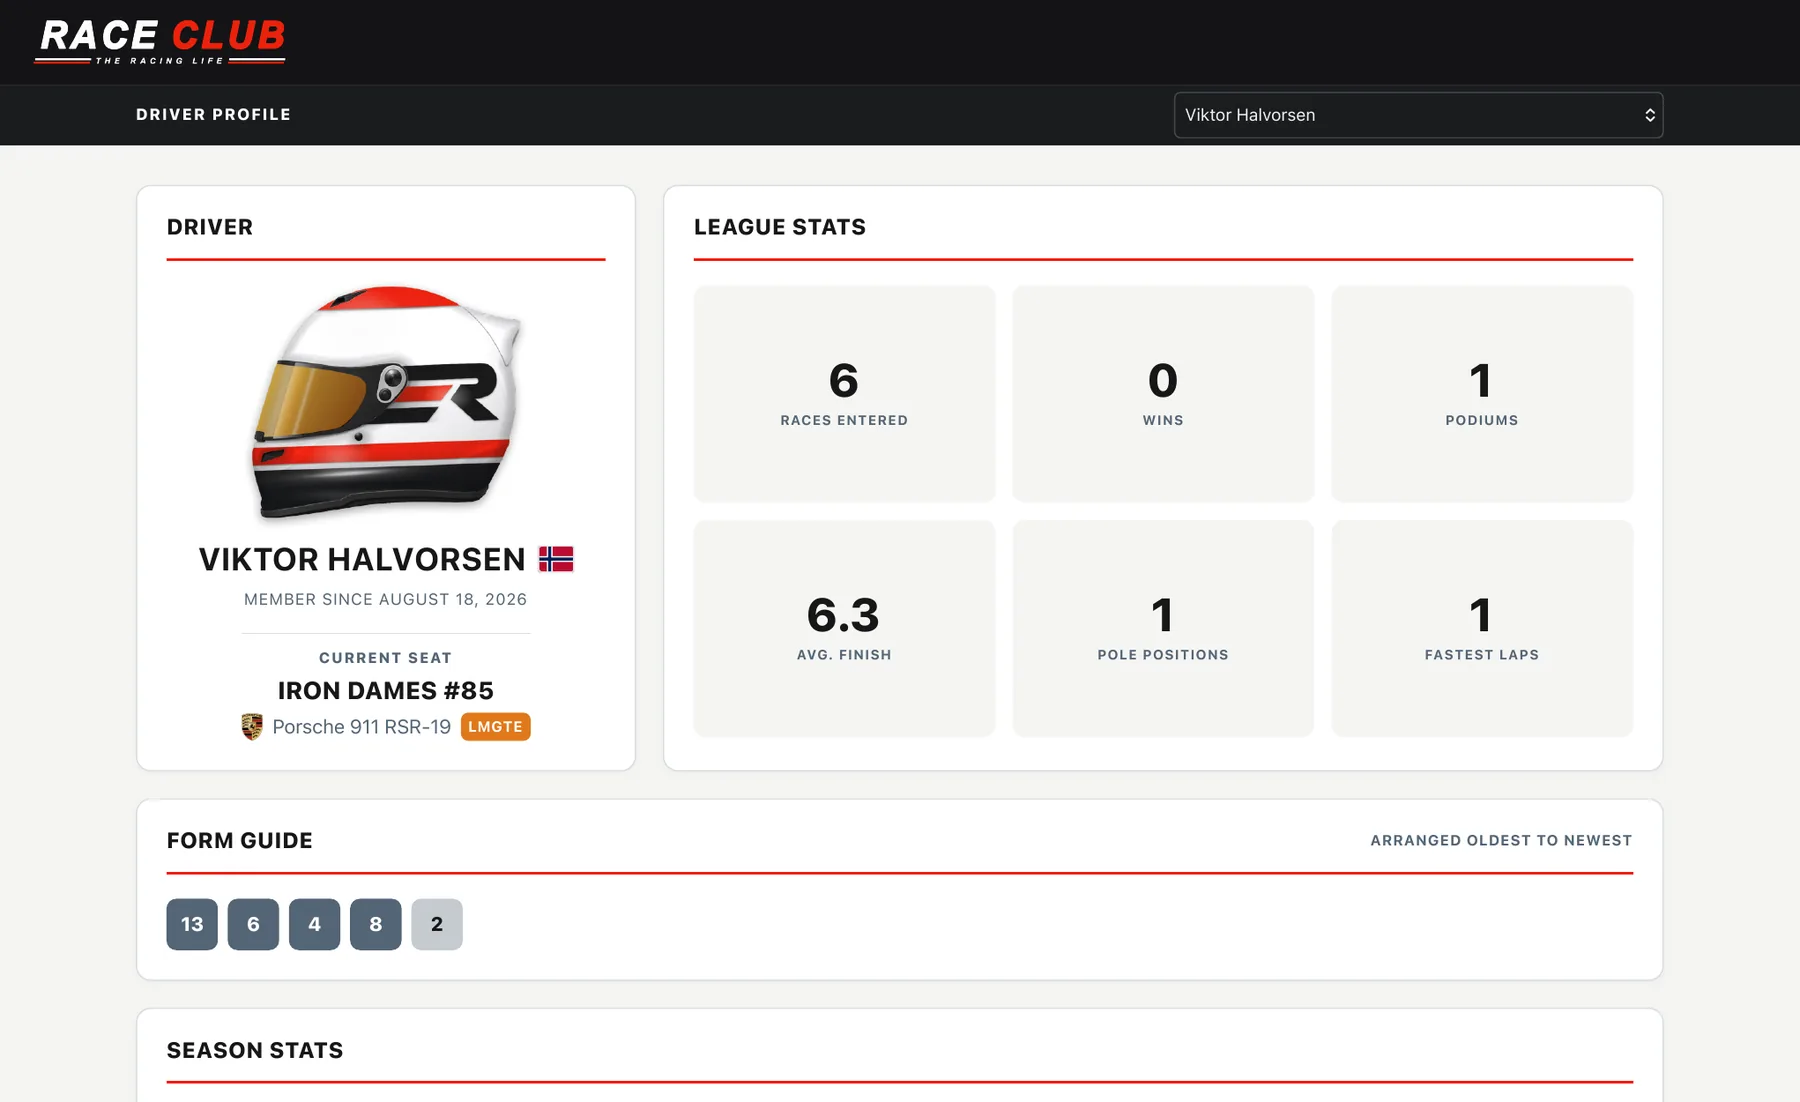
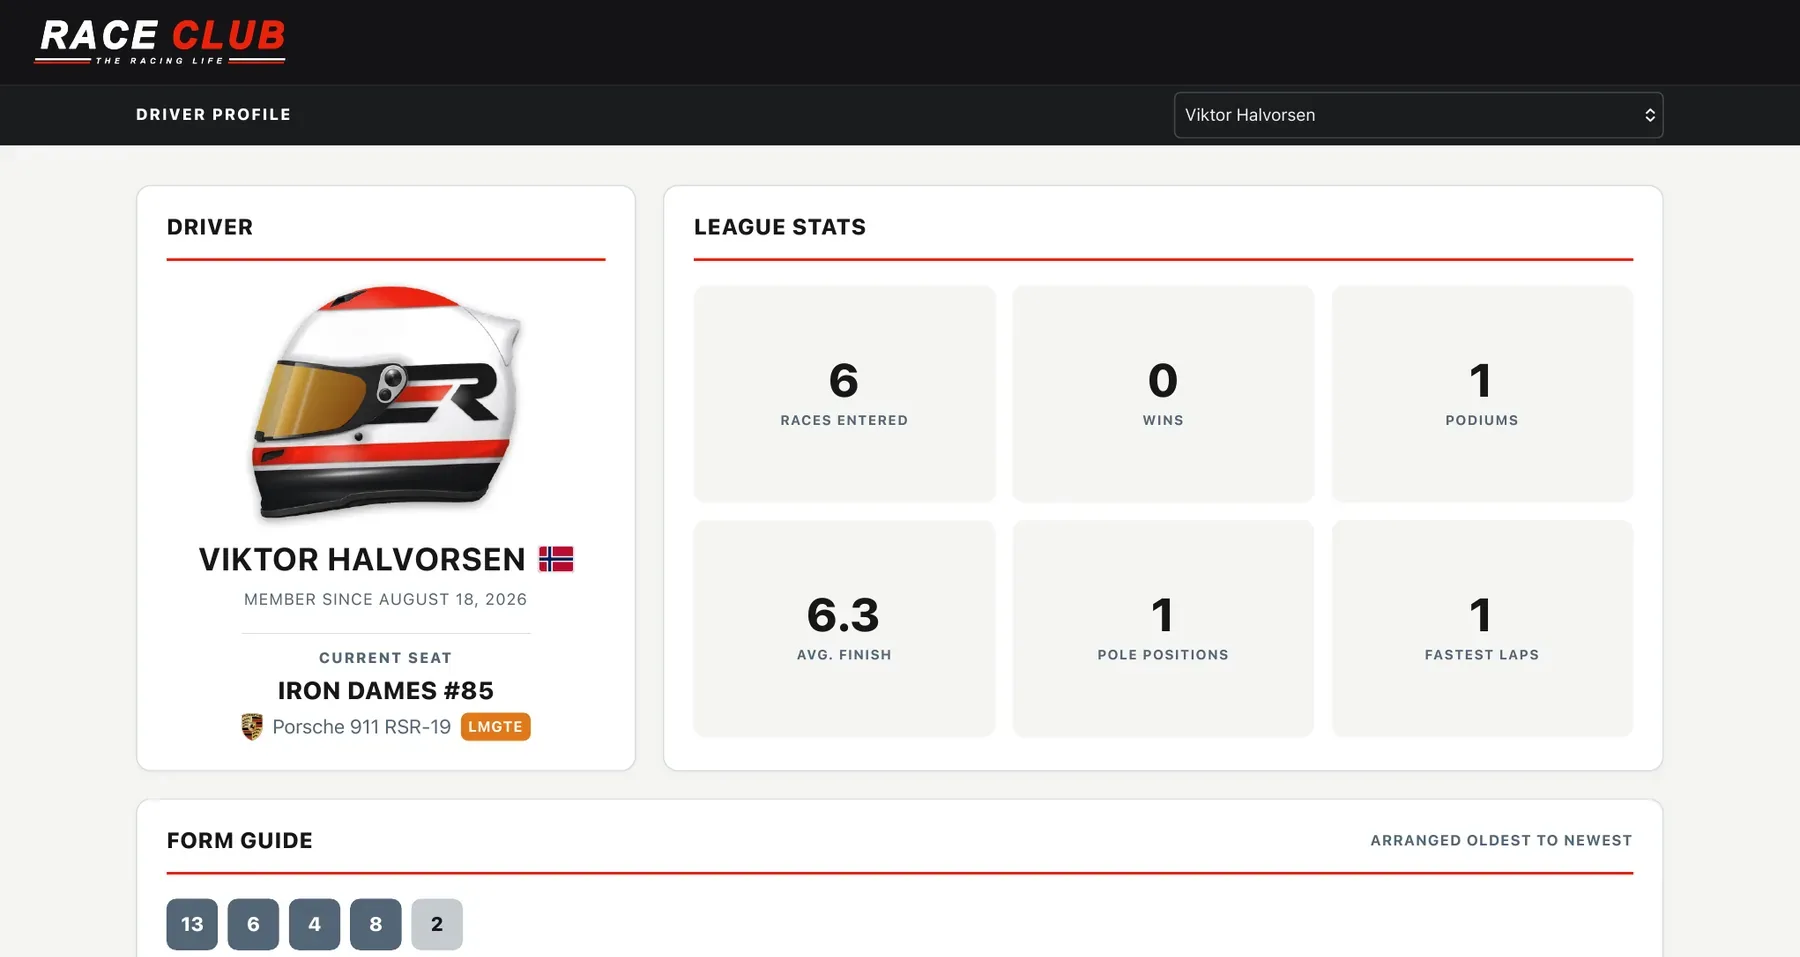
Index: Driver Profile tile fades to Season Stats and Story Mentions & Rivalries (0.10.115)
Claude-Session: https://claude.ai/code/session_01Bj2X1fWtjx3RscNPghHY9p

diff --git a/index.html b/index.html
@@ -16,17 +16,17 @@
 <link rel="icon" href="favicon.ico" sizes="any">
 <link rel="icon" type="image/png" sizes="32x32" href="assets/images/favicon-32.png">
 <link rel="apple-touch-icon" href="assets/images/apple-touch-icon.png">
-<link rel="stylesheet" href="css/style.css?v=0.10.114">
-<script src="js/version.js?v=0.10.114"></script>
-<script src="js/footer-stick.js?v=0.10.114" defer></script>
-<script src="js/img-loader.js?v=0.10.114"></script>
-<script src="js/api.js?v=0.10.114"></script>
-<script src="js/auth.js?v=0.10.114"></script>
-<script src="js/header.js?v=0.10.114"></script>
+<link rel="stylesheet" href="css/style.css?v=0.10.115">
+<script src="js/version.js?v=0.10.115"></script>
+<script src="js/footer-stick.js?v=0.10.115" defer></script>
+<script src="js/img-loader.js?v=0.10.115"></script>
+<script src="js/api.js?v=0.10.115"></script>
+<script src="js/auth.js?v=0.10.115"></script>
+<script src="js/header.js?v=0.10.115"></script>
 <!-- reference-data.js + edit-profile.js -- let the header's Edit Profile menu item open its
      popup in place on this page instead of navigating to Account.html first. -->
-<script src="js/reference-data.js?v=0.10.114"></script>
-<script src="js/edit-profile.js?v=0.10.114"></script>
+<script src="js/reference-data.js?v=0.10.115"></script>
+<script src="js/edit-profile.js?v=0.10.115"></script>
 </head>
 <body>
 
@@ -186,11 +186,11 @@ var RC_DATA_BASE = 'https://stenbough-cmd.github.io/race-club-data/website/data/
           <ul><li>Race stories written after every round</li><li>Standings for drivers, teams and manufacturers</li><li>Season calendar and class highlights</li></ul>
         </div>
       </div>
-      <div class="rc-tilt-row rc-tilt-right">
+      <div class="rc-tilt-row rc-tilt-multi rc-tilt-right">
         <div class="rc-tilt-scene">
           <div class="rc-browser rc-tilt-browser">
             <div class="rc-browser-bar" aria-hidden="true"><i></i><i></i><i></i><span>Driver Profile</span></div>
-            <div class="rc-browser-stage"><img class="rc-inside-img rc-inside-img-on" src="assets/images/showcase/driver-profile.webp" width="1800" height="1102" alt="A Race Club driver profile: helmet, current seat, league stats and form guide." loading="lazy" decoding="async"></div>
+            <div class="rc-browser-stage" style="aspect-ratio: 1800 / 957;"><img data-label="Driver Profile" class="rc-inside-img rc-inside-img-on" src="assets/images/showcase/driver-profile.webp" width="1800" height="957" alt="A Race Club driver profile: helmet, current seat, league stats and form guide." loading="lazy" decoding="async"><img class="rc-inside-img" src="assets/images/showcase/profile-stats.webp" width="1800" height="957" alt="Driver Profile season stats: races, rank, points, wins, podiums and form charts like points trend and finish versus start." data-label="Season Stats" loading="lazy" decoding="async"><img class="rc-inside-img" src="assets/images/showcase/profile-rivalries.webp" width="1800" height="957" alt="Driver Profile story mentions and rivalries, with head-to-head records against the closest rivals." data-label="Story Mentions &amp; Rivalries" loading="lazy" decoding="async"></div>
           </div>
         </div>
         <div class="rc-tilt-card">
@@ -863,6 +863,6 @@ var RC_DATA_BASE = 'https://stenbough-cmd.github.io/race-club-data/website/data/
 
 </div>
 
-<script src="js/index-showcase.js?v=0.10.114"></script>
+<script src="js/index-showcase.js?v=0.10.115"></script>
 </body>
 </html>

diff --git a/league.html b/league.html
@@ -16,10 +16,10 @@
 <link rel="icon" href="favicon.ico" sizes="any">
 <link rel="icon" type="image/png" sizes="32x32" href="assets/images/favicon-32.png">
 <link rel="apple-touch-icon" href="assets/images/apple-touch-icon.png">
-<link rel="stylesheet" href="css/style.css?v=0.10.114">
-<link rel="stylesheet" href="css/league.css?v=0.10.114">
-<link rel="stylesheet" href="css/driver-report.css?v=0.10.114">
-<link rel="stylesheet" href="css/league-light.css?v=0.10.114">
+<link rel="stylesheet" href="css/style.css?v=0.10.115">
+<link rel="stylesheet" href="css/league.css?v=0.10.115">
+<link rel="stylesheet" href="css/driver-report.css?v=0.10.115">
+<link rel="stylesheet" href="css/league-light.css?v=0.10.115">
 <!-- If a saved copy of the hub exists in this browser, js/league.js draws it immediately, so skip
      the loading overlay entirely (it only shows on a first-ever visit or after storage is cleared). -->
 <script>
@@ -28,19 +28,19 @@ document.documentElement.classList.add('rc-pending');
 window.rcRevealPage = function () { document.documentElement.classList.remove('rc-pending'); };
 setTimeout(window.rcRevealPage, 25000);
 </script>
-<script src="js/version.js?v=0.10.114"></script>
-<script src="js/footer-stick.js?v=0.10.114" defer></script>
-<script src="js/img-loader.js?v=0.10.114"></script>
-<script src="js/api.js?v=0.10.114"></script>
-<script src="js/auth.js?v=0.10.114"></script>
-<script src="js/header.js?v=0.10.114"></script>
-<script src="js/reference-data.js?v=0.10.114"></script>
+<script src="js/version.js?v=0.10.115"></script>
+<script src="js/footer-stick.js?v=0.10.115" defer></script>
+<script src="js/img-loader.js?v=0.10.115"></script>
+<script src="js/api.js?v=0.10.115"></script>
+<script src="js/auth.js?v=0.10.115"></script>
+<script src="js/header.js?v=0.10.115"></script>
+<script src="js/reference-data.js?v=0.10.115"></script>
 <!-- edit-profile.js -- lets the header's Edit Profile menu item open its popup in place on this
      page (dark-themed) instead of navigating to Account.html first. -->
-<script src="js/edit-profile.js?v=0.10.114"></script>
+<script src="js/edit-profile.js?v=0.10.115"></script>
 <!-- rulebook-content.js -- RULEBOOK_SECTIONS, the same source Account.html's own Rules and
      Regulations card reads from. -->
-<script src="js/rulebook-content.js?v=0.10.114"></script>
+<script src="js/rulebook-content.js?v=0.10.115"></script>
 </head>
 <body class="rc-league-page rcl-light rcl-hub">
 
@@ -129,8 +129,8 @@ setTimeout(window.rcRevealPage, 25000);
 </div>
 <script>rcWireFooterLegalLink();</script>
 
-<script src="js/driver-report.js?v=0.10.114"></script>
-<script src="js/story-fit.js?v=0.10.114"></script>
-<script src="js/league.js?v=0.10.114"></script>
+<script src="js/driver-report.js?v=0.10.115"></script>
+<script src="js/story-fit.js?v=0.10.115"></script>
+<script src="js/league.js?v=0.10.115"></script>
 </body>
 </html>

diff --git a/championship.html b/championship.html
@@ -16,24 +16,24 @@
 <link rel="icon" href="favicon.ico" sizes="any">
 <link rel="icon" type="image/png" sizes="32x32" href="assets/images/favicon-32.png">
 <link rel="apple-touch-icon" href="assets/images/apple-touch-icon.png">
-<link rel="stylesheet" href="css/style.css?v=0.10.114">
-<link rel="stylesheet" href="css/league.css?v=0.10.114">
-<link rel="stylesheet" href="css/driver-report.css?v=0.10.114">
-<link rel="stylesheet" href="css/championship.css?v=0.10.114">
+<link rel="stylesheet" href="css/style.css?v=0.10.115">
+<link rel="stylesheet" href="css/league.css?v=0.10.115">
+<link rel="stylesheet" href="css/driver-report.css?v=0.10.115">
+<link rel="stylesheet" href="css/championship.css?v=0.10.115">
 <script>
 /* Plain empty page until the data is ready (css/league.css, html.rc-pending). Always lifted after 25 s so a failure can never leave a blank page. */
 document.documentElement.classList.add('rc-pending');
 window.rcRevealPage = function () { document.documentElement.classList.remove('rc-pending'); };
 setTimeout(window.rcRevealPage, 25000);
 </script>
-<script src="js/version.js?v=0.10.114"></script>
-<script src="js/footer-stick.js?v=0.10.114" defer></script>
-<script src="js/img-loader.js?v=0.10.114"></script>
-<script src="js/api.js?v=0.10.114"></script>
-<script src="js/auth.js?v=0.10.114"></script>
-<script src="js/header.js?v=0.10.114"></script>
-<script src="js/reference-data.js?v=0.10.114"></script>
-<script src="js/edit-profile.js?v=0.10.114"></script>
+<script src="js/version.js?v=0.10.115"></script>
+<script src="js/footer-stick.js?v=0.10.115" defer></script>
+<script src="js/img-loader.js?v=0.10.115"></script>
+<script src="js/api.js?v=0.10.115"></script>
+<script src="js/auth.js?v=0.10.115"></script>
+<script src="js/header.js?v=0.10.115"></script>
+<script src="js/reference-data.js?v=0.10.115"></script>
+<script src="js/edit-profile.js?v=0.10.115"></script>
 </head>
 <!-- rc-league-page gives this page the League Hub's exact layout; rcc-page (css/championship.css)
      swaps its colors to the light member-page palette. -->
@@ -105,10 +105,10 @@ setTimeout(window.rcRevealPage, 25000);
 </div>
 <script>rcWireFooterLegalLink();</script>
 
-<script src="js/championship-help.js?v=0.10.114"></script>
-<script src="js/car-picker.js?v=0.10.114"></script>
-<script src="js/story-fit.js?v=0.10.114"></script>
-<script src="js/championship.js?v=0.10.114"></script>
-<script src="js/driver-report.js?v=0.10.114"></script>
+<script src="js/championship-help.js?v=0.10.115"></script>
+<script src="js/car-picker.js?v=0.10.115"></script>
+<script src="js/story-fit.js?v=0.10.115"></script>
+<script src="js/championship.js?v=0.10.115"></script>
+<script src="js/driver-report.js?v=0.10.115"></script>
 </body>
 </html>

diff --git a/profile.html b/profile.html
@@ -16,19 +16,19 @@
 <link rel="icon" href="favicon.ico" sizes="any">
 <link rel="icon" type="image/png" sizes="32x32" href="assets/images/favicon-32.png">
 <link rel="apple-touch-icon" href="assets/images/apple-touch-icon.png">
-<link rel="stylesheet" href="css/style.css?v=0.10.114">
-<link rel="stylesheet" href="css/league.css?v=0.10.114">
-<link rel="stylesheet" href="css/profile.css?v=0.10.114">
-<link rel="stylesheet" href="css/driver-report.css?v=0.10.114">
-<script src="js/version.js?v=0.10.114"></script>
-<script src="js/footer-stick.js?v=0.10.114" defer></script>
-<script src="js/img-loader.js?v=0.10.114"></script>
-<script src="js/api.js?v=0.10.114"></script>
-<script src="js/auth.js?v=0.10.114"></script>
-<script src="js/header.js?v=0.10.114"></script>
-<script src="js/reference-data.js?v=0.10.114"></script>
-<script src="js/edit-profile.js?v=0.10.114"></script>
-<script src="js/rulebook-content.js?v=0.10.114"></script>
+<link rel="stylesheet" href="css/style.css?v=0.10.115">
+<link rel="stylesheet" href="css/league.css?v=0.10.115">
+<link rel="stylesheet" href="css/profile.css?v=0.10.115">
+<link rel="stylesheet" href="css/driver-report.css?v=0.10.115">
+<script src="js/version.js?v=0.10.115"></script>
+<script src="js/footer-stick.js?v=0.10.115" defer></script>
+<script src="js/img-loader.js?v=0.10.115"></script>
+<script src="js/api.js?v=0.10.115"></script>
+<script src="js/auth.js?v=0.10.115"></script>
+<script src="js/header.js?v=0.10.115"></script>
+<script src="js/reference-data.js?v=0.10.115"></script>
+<script src="js/edit-profile.js?v=0.10.115"></script>
+<script src="js/rulebook-content.js?v=0.10.115"></script>
 </head>
 <body class="rc-league-page rcc-page">
 <div id="rc-header"></div>
@@ -167,8 +167,8 @@
 </footer>
 <script>rcWireFooterLegalLink();</script>
 
-<script src="js/driver-report.js?v=0.10.114"></script>
-<script src="js/profile.js?v=0.10.114"></script>
-<script src="js/profile-page.js?v=0.10.114"></script>
+<script src="js/driver-report.js?v=0.10.115"></script>
+<script src="js/profile.js?v=0.10.115"></script>
+<script src="js/profile-page.js?v=0.10.115"></script>
 </body>
 </html>

diff --git a/Account.html b/Account.html
@@ -8,15 +8,15 @@
 <link rel="icon" href="favicon.ico" sizes="any">
 <link rel="icon" type="image/png" sizes="32x32" href="assets/images/favicon-32.png">
 <link rel="apple-touch-icon" href="assets/images/apple-touch-icon.png">
-<link rel="stylesheet" href="css/style.css?v=0.10.114">
-<link rel="stylesheet" href="css/helmet.css?v=0.10.114">
-<script src="js/version.js?v=0.10.114"></script>
-<script src="js/footer-stick.js?v=0.10.114" defer></script>
-<script src="js/img-loader.js?v=0.10.114"></script>
-<script src="js/api.js?v=0.10.114"></script>
-<script src="js/auth.js?v=0.10.114"></script>
-<script src="js/reference-data.js?v=0.10.114"></script>
-<script src="js/header.js?v=0.10.114"></script>
+<link rel="stylesheet" href="css/style.css?v=0.10.115">
+<link rel="stylesheet" href="css/helmet.css?v=0.10.115">
+<script src="js/version.js?v=0.10.115"></script>
+<script src="js/footer-stick.js?v=0.10.115" defer></script>
+<script src="js/img-loader.js?v=0.10.115"></script>
+<script src="js/api.js?v=0.10.115"></script>
+<script src="js/auth.js?v=0.10.115"></script>
+<script src="js/reference-data.js?v=0.10.115"></script>
+<script src="js/header.js?v=0.10.115"></script>
 </head>
 <body class="rc-account-page">
 
@@ -80,10 +80,10 @@
 <script>rcWireFooterLegalLink();</script>
 
 <!-- These load after the page is drawn (defer), in this order. The helmet designer files (js/helmet.js, js/helmet-editor.js) load only when an Admin opens the designer. -->
-<script src="js/rulebook-content.js?v=0.10.114" defer></script>
-<script src="js/championship-dashboard.js?v=0.10.114" defer></script>
-<script src="js/edit-profile.js?v=0.10.114" defer></script>
-<script src="js/car-picker.js?v=0.10.114" defer></script>
-<script src="js/account.js?v=0.10.114" defer></script>
+<script src="js/rulebook-content.js?v=0.10.115" defer></script>
+<script src="js/championship-dashboard.js?v=0.10.115" defer></script>
+<script src="js/edit-profile.js?v=0.10.115" defer></script>
+<script src="js/car-picker.js?v=0.10.115" defer></script>
+<script src="js/account.js?v=0.10.115" defer></script>
 </body>
 </html>

diff --git a/register.html b/register.html
@@ -16,14 +16,14 @@
 <link rel="icon" href="favicon.ico" sizes="any">
 <link rel="icon" type="image/png" sizes="32x32" href="assets/images/favicon-32.png">
 <link rel="apple-touch-icon" href="assets/images/apple-touch-icon.png">
-<link rel="stylesheet" href="css/style.css?v=0.10.114">
-<script src="js/version.js?v=0.10.114"></script>
-<script src="js/footer-stick.js?v=0.10.114" defer></script>
-<script src="js/img-loader.js?v=0.10.114"></script>
-<script src="js/api.js?v=0.10.114"></script>
-<script src="js/auth.js?v=0.10.114"></script>
-<script src="js/reference-data.js?v=0.10.114"></script>
-<script src="js/header.js?v=0.10.114"></script>
+<link rel="stylesheet" href="css/style.css?v=0.10.115">
+<script src="js/version.js?v=0.10.115"></script>
+<script src="js/footer-stick.js?v=0.10.115" defer></script>
+<script src="js/img-loader.js?v=0.10.115"></script>
+<script src="js/api.js?v=0.10.115"></script>
+<script src="js/auth.js?v=0.10.115"></script>
+<script src="js/reference-data.js?v=0.10.115"></script>
+<script src="js/header.js?v=0.10.115"></script>
 </head>
 <body>
 <div id="rc-header"></div>

diff --git a/login.html b/login.html
@@ -16,13 +16,13 @@
 <link rel="icon" href="favicon.ico" sizes="any">
 <link rel="icon" type="image/png" sizes="32x32" href="assets/images/favicon-32.png">
 <link rel="apple-touch-icon" href="assets/images/apple-touch-icon.png">
-<link rel="stylesheet" href="css/style.css?v=0.10.114">
-<script src="js/version.js?v=0.10.114"></script>
-<script src="js/footer-stick.js?v=0.10.114" defer></script>
-<script src="js/img-loader.js?v=0.10.114"></script>
-<script src="js/api.js?v=0.10.114"></script>
-<script src="js/auth.js?v=0.10.114"></script>
-<script src="js/header.js?v=0.10.114"></script>
+<link rel="stylesheet" href="css/style.css?v=0.10.115">
+<script src="js/version.js?v=0.10.115"></script>
+<script src="js/footer-stick.js?v=0.10.115" defer></script>
+<script src="js/img-loader.js?v=0.10.115"></script>
+<script src="js/api.js?v=0.10.115"></script>
+<script src="js/auth.js?v=0.10.115"></script>
+<script src="js/header.js?v=0.10.115"></script>
 </head>
 <body>
 <div id="rc-header"></div>

diff --git a/reset-password.html b/reset-password.html
@@ -8,13 +8,13 @@
 <link rel="icon" href="favicon.ico" sizes="any">
 <link rel="icon" type="image/png" sizes="32x32" href="assets/images/favicon-32.png">
 <link rel="apple-touch-icon" href="assets/images/apple-touch-icon.png">
-<link rel="stylesheet" href="css/style.css?v=0.10.114">
-<script src="js/version.js?v=0.10.114"></script>
-<script src="js/footer-stick.js?v=0.10.114" defer></script>
-<script src="js/img-loader.js?v=0.10.114"></script>
-<script src="js/api.js?v=0.10.114"></script>
-<script src="js/auth.js?v=0.10.114"></script>
-<script src="js/header.js?v=0.10.114"></script>
+<link rel="stylesheet" href="css/style.css?v=0.10.115">
+<script src="js/version.js?v=0.10.115"></script>
+<script src="js/footer-stick.js?v=0.10.115" defer></script>
+<script src="js/img-loader.js?v=0.10.115"></script>
+<script src="js/api.js?v=0.10.115"></script>
+<script src="js/auth.js?v=0.10.115"></script>
+<script src="js/header.js?v=0.10.115"></script>
 </head>
 <body>
 <div id="rc-header"></div>

diff --git a/verify.html b/verify.html
@@ -8,13 +8,13 @@
 <link rel="icon" href="favicon.ico" sizes="any">
 <link rel="icon" type="image/png" sizes="32x32" href="assets/images/favicon-32.png">
 <link rel="apple-touch-icon" href="assets/images/apple-touch-icon.png">
-<link rel="stylesheet" href="css/style.css?v=0.10.114">
-<script src="js/version.js?v=0.10.114"></script>
-<script src="js/footer-stick.js?v=0.10.114" defer></script>
-<script src="js/img-loader.js?v=0.10.114"></script>
-<script src="js/api.js?v=0.10.114"></script>
-<script src="js/auth.js?v=0.10.114"></script>
-<script src="js/header.js?v=0.10.114"></script>
+<link rel="stylesheet" href="css/style.css?v=0.10.115">
+<script src="js/version.js?v=0.10.115"></script>
+<script src="js/footer-stick.js?v=0.10.115" defer></script>
+<script src="js/img-loader.js?v=0.10.115"></script>
+<script src="js/api.js?v=0.10.115"></script>
+<script src="js/auth.js?v=0.10.115"></script>
+<script src="js/header.js?v=0.10.115"></script>
 </head>
 <body>
 <div id="rc-header"></div>

diff --git a/js/version.js b/js/version.js
@@ -4,7 +4,7 @@
 // Do NOT edit by hand: run  node tools/bump-version.js 0.9.1  from the site folder, which changes this number
 // AND the "?v=" on every <script>/<link> tag in every .html file in one go.
 // Numbering rule (Matt, 2026-11-03): the site is not ready for release, so after 0.9.99 the next version is 0.10.0 (then 0.10.1 ...), not 1.0.
-var RC_VERSION = '0.10.114';
+var RC_VERSION = '0.10.115';
 // rcAsset('js/helmet.js') -> 'js/helmet.js?v=0.9.0'. Used by scripts that load other files on demand.
 function rcAsset(path) { return path + '?v=' + RC_VERSION; }
 
